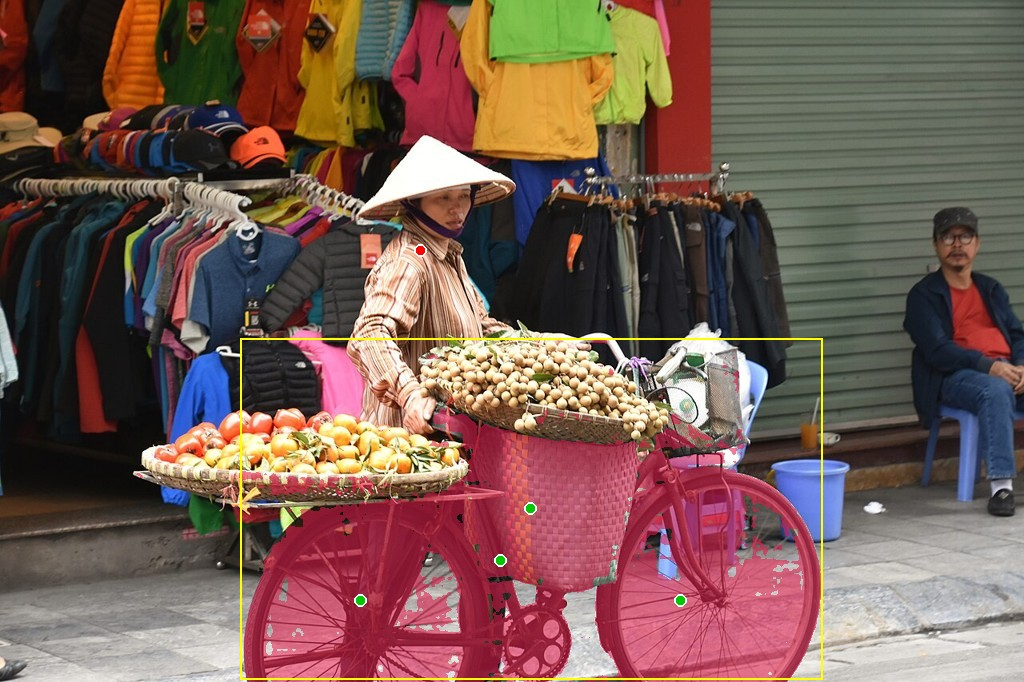
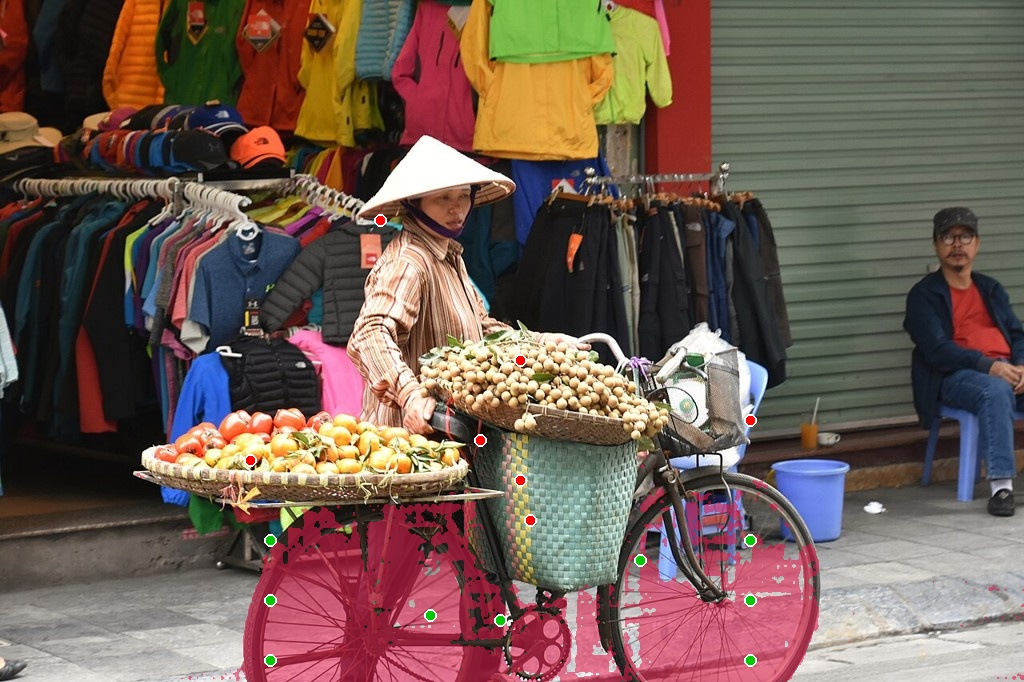
Part 5: Refine SAM masks - completely isolate driver in img_013 and woven basket in img_031

diff --git a/submission/REPORT.md b/submission/REPORT.md
@@ -55,9 +55,9 @@
 
 | Ảnh | SAM (phiên bản) | Số click / prompt | Mask gồm người lái / hàng hoá? | Lỗi quan sát | File trong `masks/` |
 |---|---|---|---|---|---|
-| `img_013.jpg` | SAM 2.1 (`sam2.1_b.pt`) | 1 box + 2 pos + 3 neg clicks | **CÓ gồm người lái** (bị nuốt tài xế mặc áo tím vào mask xe) | SAM gặp khó khi bóc tách người lái ngồi trong cabin mở của xe tuk-tuk. Dù đã dùng box gợi ý và đặt 3 click âm ngay trên đầu/vai người lái, mask vẫn bị dính thân người tài xế vào thân xe và lem nhẹ sang bánh xe máy bên cạnh (vi phạm quy tắc 4.1.4 nếu không sửa tay). | `submission/masks/tuktuk_img013.jpg` |
+| `img_013.jpg` | SAM 2.1 (`sam2.1_b.pt`) | 6 pos + 10 neg clicks | **KHÔNG gồm người lái** (đã bóc tách thành công tài xế áo tím ra ngoài) | Ban đầu SAM bị nuốt chửng toàn bộ người tài xế áo tím và bánh xe máy phía sau vào xe tuk-tuk. Cần can thiệp tinh chỉnh bằng 10 click âm đặt dọc đầu, ngực áo tím, tay, chân tài xế và xe máy thì SAM mới bóc tách triệt để người lái ra khỏi phương tiện theo đúng quy tắc 4.1.4. | `submission/masks/tuktuk_img013.jpg` |
 | `img_004.jpg` | SAM 2.1 (`sam2.1_b.pt`) | 1 box + 1 pos click | Không gồm người lái (xe đỗ không người) | Bám sát viền xe tuk-tuk màu vàng xanh, biên dạng thân xe và bánh xe được tách rất sắc nét, không bị lem ra lòng đường hay xe lân cận. | `submission/masks/tuktuk_img004.jpg` |
-| `img_031.jpg` | SAM 2.1 (`sam2.1_b.pt`) | 1 box + 4 pos + 1 neg clicks | **KHÔNG gồm hàng hoá** (bỏ sót mẹt hoa quả) | Căm xe / nan hoa bị thủng lỗ chỗ, viền răng cưa nham nhở do cấu trúc mảnh; SAM xem mẹt nhãn/cà chua cồng kềnh là vật thể rời nên không gom vào mask xe đạp (muốn gom hàng hoá theo quy tắc 4.1.4 phải tốn thêm nhiều click dương vào từng mẹt quả). | `submission/masks/bicycle_img031.jpg` |
+| `img_031.jpg` | SAM 2.1 (`sam2.1_b.pt`) | 9 pos + 7 neg clicks | **KHÔNG gồm người lái, KHÔNG gồm giỏ/hàng hoá** (chỉ giữ đúng xe đạp) | SAM mặc định hay bị lem sang giỏ đựng đồ và hàng hoá. Cần dùng 7 click âm loại trừ giỏ nhựa đan ở gióng xe, mẹt hoa quả và người bán hàng; phần bánh và khung sườn xe được giữ trọn vẹn, căm xe có hiện tượng răng cưa nhẹ do nan hoa mảnh. | `submission/masks/bicycle_img031.jpg` |
 
 - Đối chiếu guideline mục 4.2: Quy tắc 4.1.4 (tách riêng người lái và phương tiện) rất hữu ích; tuy nhiên guideline còn thiếu quy định về việc mask polygon có nên đục lỗ qua các nan hoa xe đạp / khung hở của xe ba gác hay phủ kín khối (solid polygon).
 - *(Tuỳ chọn)* Interactor SAM trong CVAT: Hoạt động rất mượt mà và trực quan, thao tác click chuột trực tiếp trên giao diện web nhanh và tiện lợi hơn chạy script offline do có phản hồi thị giác ngay lập tức.
